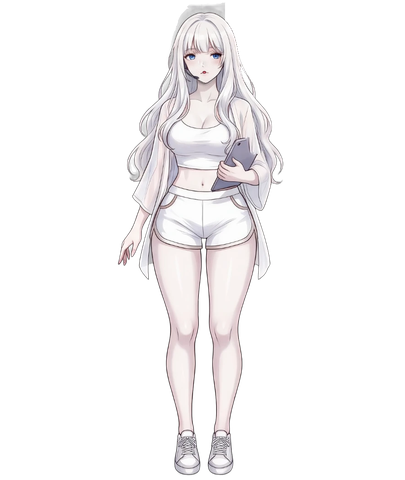
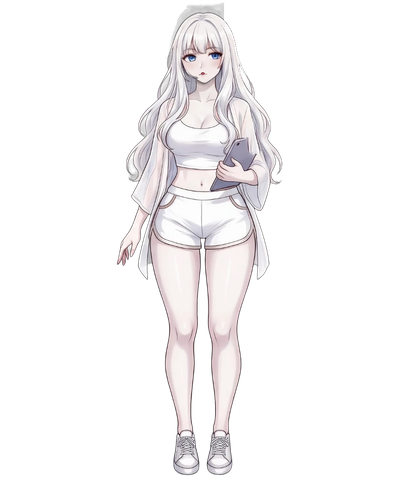
fix: replace Yuki's whole full-body face instead of single parts
Re-measured the full-body face: it shares the bust face's proportions,
so eyes, nose, mouth and chin line up at one scale. The earlier mix of
bust eyes with the sheet's own nose and chin (and part-wise pasting from
fixed positions) put features in the wrong places.

Claude-Session: https://claude.ai/code/session_01L42W33ifVQcmMy8xts9BDQ

diff --git a/tools/build_frames.py b/tools/build_frames.py
@@ -89,17 +89,13 @@ CHARACTERS = {
         ),
         # erase: sheet boxes where semi-transparent leftovers of the background (a sticky note
         # and the board edge beside the hair) are dropped; the opaque hair stays.
-        full=dict(crop=(170, 60, 580, 1116), top=87, bottom=1099, mid=(371.5, 182), dist=47,
+        # face: the full-body face has the bust face's proportions (eyes, nose, mouth, chin all
+        # line up at one scale), so the whole face is replaced, outline included, instead of
+        # mixing bust eyes with the sheet's own nose and chin. Oval in eye-distance units
+        # (half width, top, bottom); thinking stops above the chin where the bust hand is.
+        full=dict(crop=(170, 60, 580, 1116), top=87, bottom=1099, mid=(373, 184.5), dist=49.5,
                   erase=((420, 60, 580, 240),),
-                  # The full-body face is not a smaller copy of the bust face (its eyes are
-                  # smaller and set wider apart), so each eye and the mouth are pasted on
-                  # their own, sized by the feature's width in both drawings.
-                  parts=(
-                      dict(kind="blink", src=(1405, 350), dst=(348.5, 185), scale=0.32, oval=(62, 38, 58)),
-                      dict(kind="blink", src=(1530, 343), dst=(398, 184.5), scale=0.32, oval=(62, 38, 58)),
-                      # Stops above the bust chin line, which would otherwise show as a second chin.
-                      dict(kind="talk", src=(1472, 436), dst=(376, 217.5), scale=0.40, oval=(48, 28, 34)),
-                  )),
+                  face=dict(oval=(1.0, -0.55, 1.05), bottom={"thinking": 0.92})),
         expressions=dict(
             sheet="reference_expressions.webp",
             # Rows stop above the Korean/English labels printed under each face.
@@ -308,32 +304,6 @@ def build_full(config, folder, session, frames, out):
         img.putalpha(Image.composite(img.getchannel("A"), Image.new("L", img.size, 0), mask))
         return img
 
-    bust = config["base"]
-    k_bust = config["eye_px"] / bust["dist"]
-    bust_mid = bust["mid"]
-    to_full = lambda p: ((p[0] - ox) * k - round(left), (p[1] - oy) * k - round(top))
-
-    def paste_part(result, face, part):
-        """Paste one feature (an eye with its lid and cheek, or the mouth) from a bust frame.
-
-        `src` is the feature in base-sheet px, `dst` the same feature on the full-body figure,
-        `scale` full-sheet px per base-sheet px (from the feature's width in both drawings),
-        `oval` the patch as (half width, up, down) in base-sheet px around `src`.
-        """
-        cx, cy = to_out(part["src"], bust_mid, k_bust)
-        rx, up, down = (v * k_bust for v in part["oval"])
-        mask = Image.new("L", (W, H), 0)
-        ImageDraw.Draw(mask).ellipse([cx - rx, cy - up, cx + rx, cy + down], fill=255)
-        mask = mask.filter(ImageFilter.GaussianBlur(min(rx, up, down) * 0.25))
-        patch = masked(face, mask)
-        s = part["scale"] / k_bust * k
-        small = patch.convert("RGBa").resize((round(W * s), round(H * s)), Image.LANCZOS).convert("RGBA")
-        tx, ty = to_full(part["dst"])
-        x, y = round(tx - cx * s), round(ty - cy * s)
-        canvas = Image.new("RGBA", (result.width + 2 * small.width, result.height + 2 * small.height), (0, 0, 0, 0))
-        canvas.alpha_composite(small, (x + small.width, y + small.height))
-        result.alpha_composite(canvas.crop((small.width, small.height, small.width + result.width, small.height + result.height)))
-
     out = out / "full"
     out.mkdir(parents=True, exist_ok=True)
     for frame_name, frame in frames.items():
@@ -345,18 +315,18 @@ def build_full(config, folder, session, frames, out):
             ImageDraw.Draw(oval).ellipse([ex - half * d, ey + top * d, ex + half * d, ey + bottom * d], fill=255)
             face = cover(face, full["cover"][expression], oval)
         result = base.copy()
-        if "parts" in full:
-            # The sheet's own full-body face is the neutral one: neutral frames only swap in
-            # what changes (closed eyes when blinking, the mouth when talking).
-            for part in full["parts"]:
-                if expression != "neutral" or frame_name.endswith(f"_{part['kind']}"):
-                    paste_part(result, face, part)
+        if "face" in full:
+            half, top, bottom = full["face"]["oval"]
+            bottom = full["face"].get("bottom", {}).get(expression, bottom)
+            mask = Image.new("L", (W, H), 0)
+            ImageDraw.Draw(mask).ellipse([ex - half * d, ey + top * d, ex + half * d, ey + bottom * d], fill=255)
+            face = masked(face, mask.filter(ImageFilter.GaussianBlur(d * 0.08)))
         else:
             band, mouth = face_mask(frame_name, frame)
             face = masked(face, Image.fromarray(np.maximum(np.array(band), np.array(mouth))))
-            size = (round(W * face_k), round(H * face_k))
-            small = face.convert("RGBa").resize(size, Image.LANCZOS).convert("RGBA")
-            result.alpha_composite(small, (round(eye_full[0] - EYE_OUT[0] * face_k), round(eye_full[1] - EYE_OUT[1] * face_k)))
+        size = (round(W * face_k), round(H * face_k))
+        small = face.convert("RGBa").resize(size, Image.LANCZOS).convert("RGBA")
+        result.alpha_composite(small, (round(eye_full[0] - EYE_OUT[0] * face_k), round(eye_full[1] - EYE_OUT[1] * face_k)))
         result.save(out / f"{frame_name}.png", optimize=True)
 
 

diff --git a/HISTORY.md b/HISTORY.md
@@ -9,7 +9,7 @@
 - 이 표정 시트는 칸마다 얼굴 크기가 달라 표정별 눈 사이 거리를 따로 두었고(머리 꼭대기 높이로 보정), 칸 아래 이름표를 잘라 냈습니다.
 - 눈 감은 프레임: 한 가지 피부색으로 덮으면 볼 홍조 때문에 얼룩이 보여서, 눈 양옆 피부색을 줄마다 이어 칠하는 방식(`skin="lerp"`)을 새로 만들었습니다. 회색 머리카락이나 속눈썹 꼬리를 피부로 착각하지 않게 따뜻한 밝은 색만 샘플로 씁니다.
 - 전신: 머리 옆 포스트잇·배경판의 반투명 잔상을 지우는 `erase` 설정, 전신 그림에도 가장 큰 덩어리만 남기는 정리를 추가했습니다.
-- 사용자 피드백 "전신 얼굴이 이상하다, 눈·입 위치가 다 틀리다": 처음엔 입만 옮겨 붙였는데(잘못 짚음), 다시 재 보니 전신 얼굴은 상반신과 비율 자체가 달랐습니다(눈이 작고 두 눈 사이가 넓음). 얼굴을 통째로 붙이는 대신 왼눈·오른눈·입을 부위별로 원래 위치와 크기에 맞춰 붙이는 `full["parts"]`로 바꿨습니다. 기본 표정은 전신 원래 얼굴을 그대로 쓰고, 입 조각은 상반신 턱선이 딸려 오지 않게 작게 잘랐습니다.
+- 사용자 피드백 "전신 얼굴이 이상하다, 눈·입 위치가 다 틀리다": 처음엔 입만 옮겨 붙였는데(잘못 짚음), 다시 재 보니 전신 얼굴은 상반신과 비율 자체가 달랐습니다(눈이 작고 두 눈 사이가 넓음). 부위별로 붙이는 방식도 시도했지만 표정마다 눈 위치가 달라 눈이 잘려 붙었고, 사용자가 다시 지적했습니다. 결국 정밀하게 다시 재 보니 전신 얼굴은 상반신과 비율이 같았고(눈 사이·코·입·턱 모두 약 0.39배), 처음 잰 눈 위치·거리가 조금 틀렸던 데다 상반신 눈·입에 전신 원래 코·턱을 섞은 게 문제였습니다. 좌표를 다시 재고, 얼굴 전체를 윤곽선까지 한 그림에서 가져오는 `full["face"]`로 고쳤습니다. 교훈: 전신 좌표는 충분히 확대해서 재고, 눈만이 아니라 코·입·턱이 같은 배율로 맞는지 확인할 것.
 
 ### 이미지 다듬기 (`e97e977`)
 - 누리 전신 부끄럼: 상반신 표정의 소매 끝이 입가에 딸려 오던 것을, 입 영역을 아래로 옮기고 소매 부분을 피부색으로 덮어 없앴습니다(`full["cover"]`). 색으로 소매를 자동 판별하는 방법은 소매와 피부색이 너무 비슷해 입까지 지워져서 포기했습니다.

diff --git a/assets/characters/README.md b/assets/characters/README.md
@@ -132,7 +132,7 @@ python tools/build_frames.py nuri   # 세라는 sera, 유키는 yuki
 - 말하는 입: `neutral_talk`, `thinking_talk`, `sad_talk`, `angry_talk`
 - 눈 감은 모습은 눈 양옆 피부색을 줄마다 이어 칠하는 방식(`skin="lerp"`)입니다. 볼 홍조가 있는 그림은 한 가지 색으로 덮으면 눈 자리에 얼룩이 보여서입니다.
 - 전신: 머리 옆에 붙은 포스트잇과 배경판의 반투명 잔상을 `erase` 범위에서 지웁니다(불투명한 머리카락은 남음).
-- 전신 얼굴은 상반신 얼굴을 줄인 그림이 아닙니다(눈이 더 작고 두 눈 사이가 더 넓음). 그래서 얼굴을 통째로 붙이지 않고 왼눈·오른눈·입을 하나씩(`full["parts"]`) 전신 그림의 원래 위치에, 각 부위 폭에 맞춘 크기로 붙입니다. 기본 표정은 전신 원래 얼굴을 그대로 쓰고, 깜빡임은 눈만, 말하는 입은 입만 바꿉니다.
+- 전신 얼굴은 상반신 얼굴과 비율이 같아서(눈 사이·코·입·턱이 모두 한 배율로 맞음), 눈·입만 붙이지 않고 얼굴 전체를 윤곽선까지 바꿉니다(`full["face"]`). 상반신 눈에 전신 원래 코·턱이 섞이면 위치가 어긋나 보이기 때문입니다. 생각 표정은 턱에 손이 있어 턱 위에서 끊습니다.
 
 ## 새 캐릭터 시트 뽑는 요령 (잘라 넣기 쉬운 형식)
 
